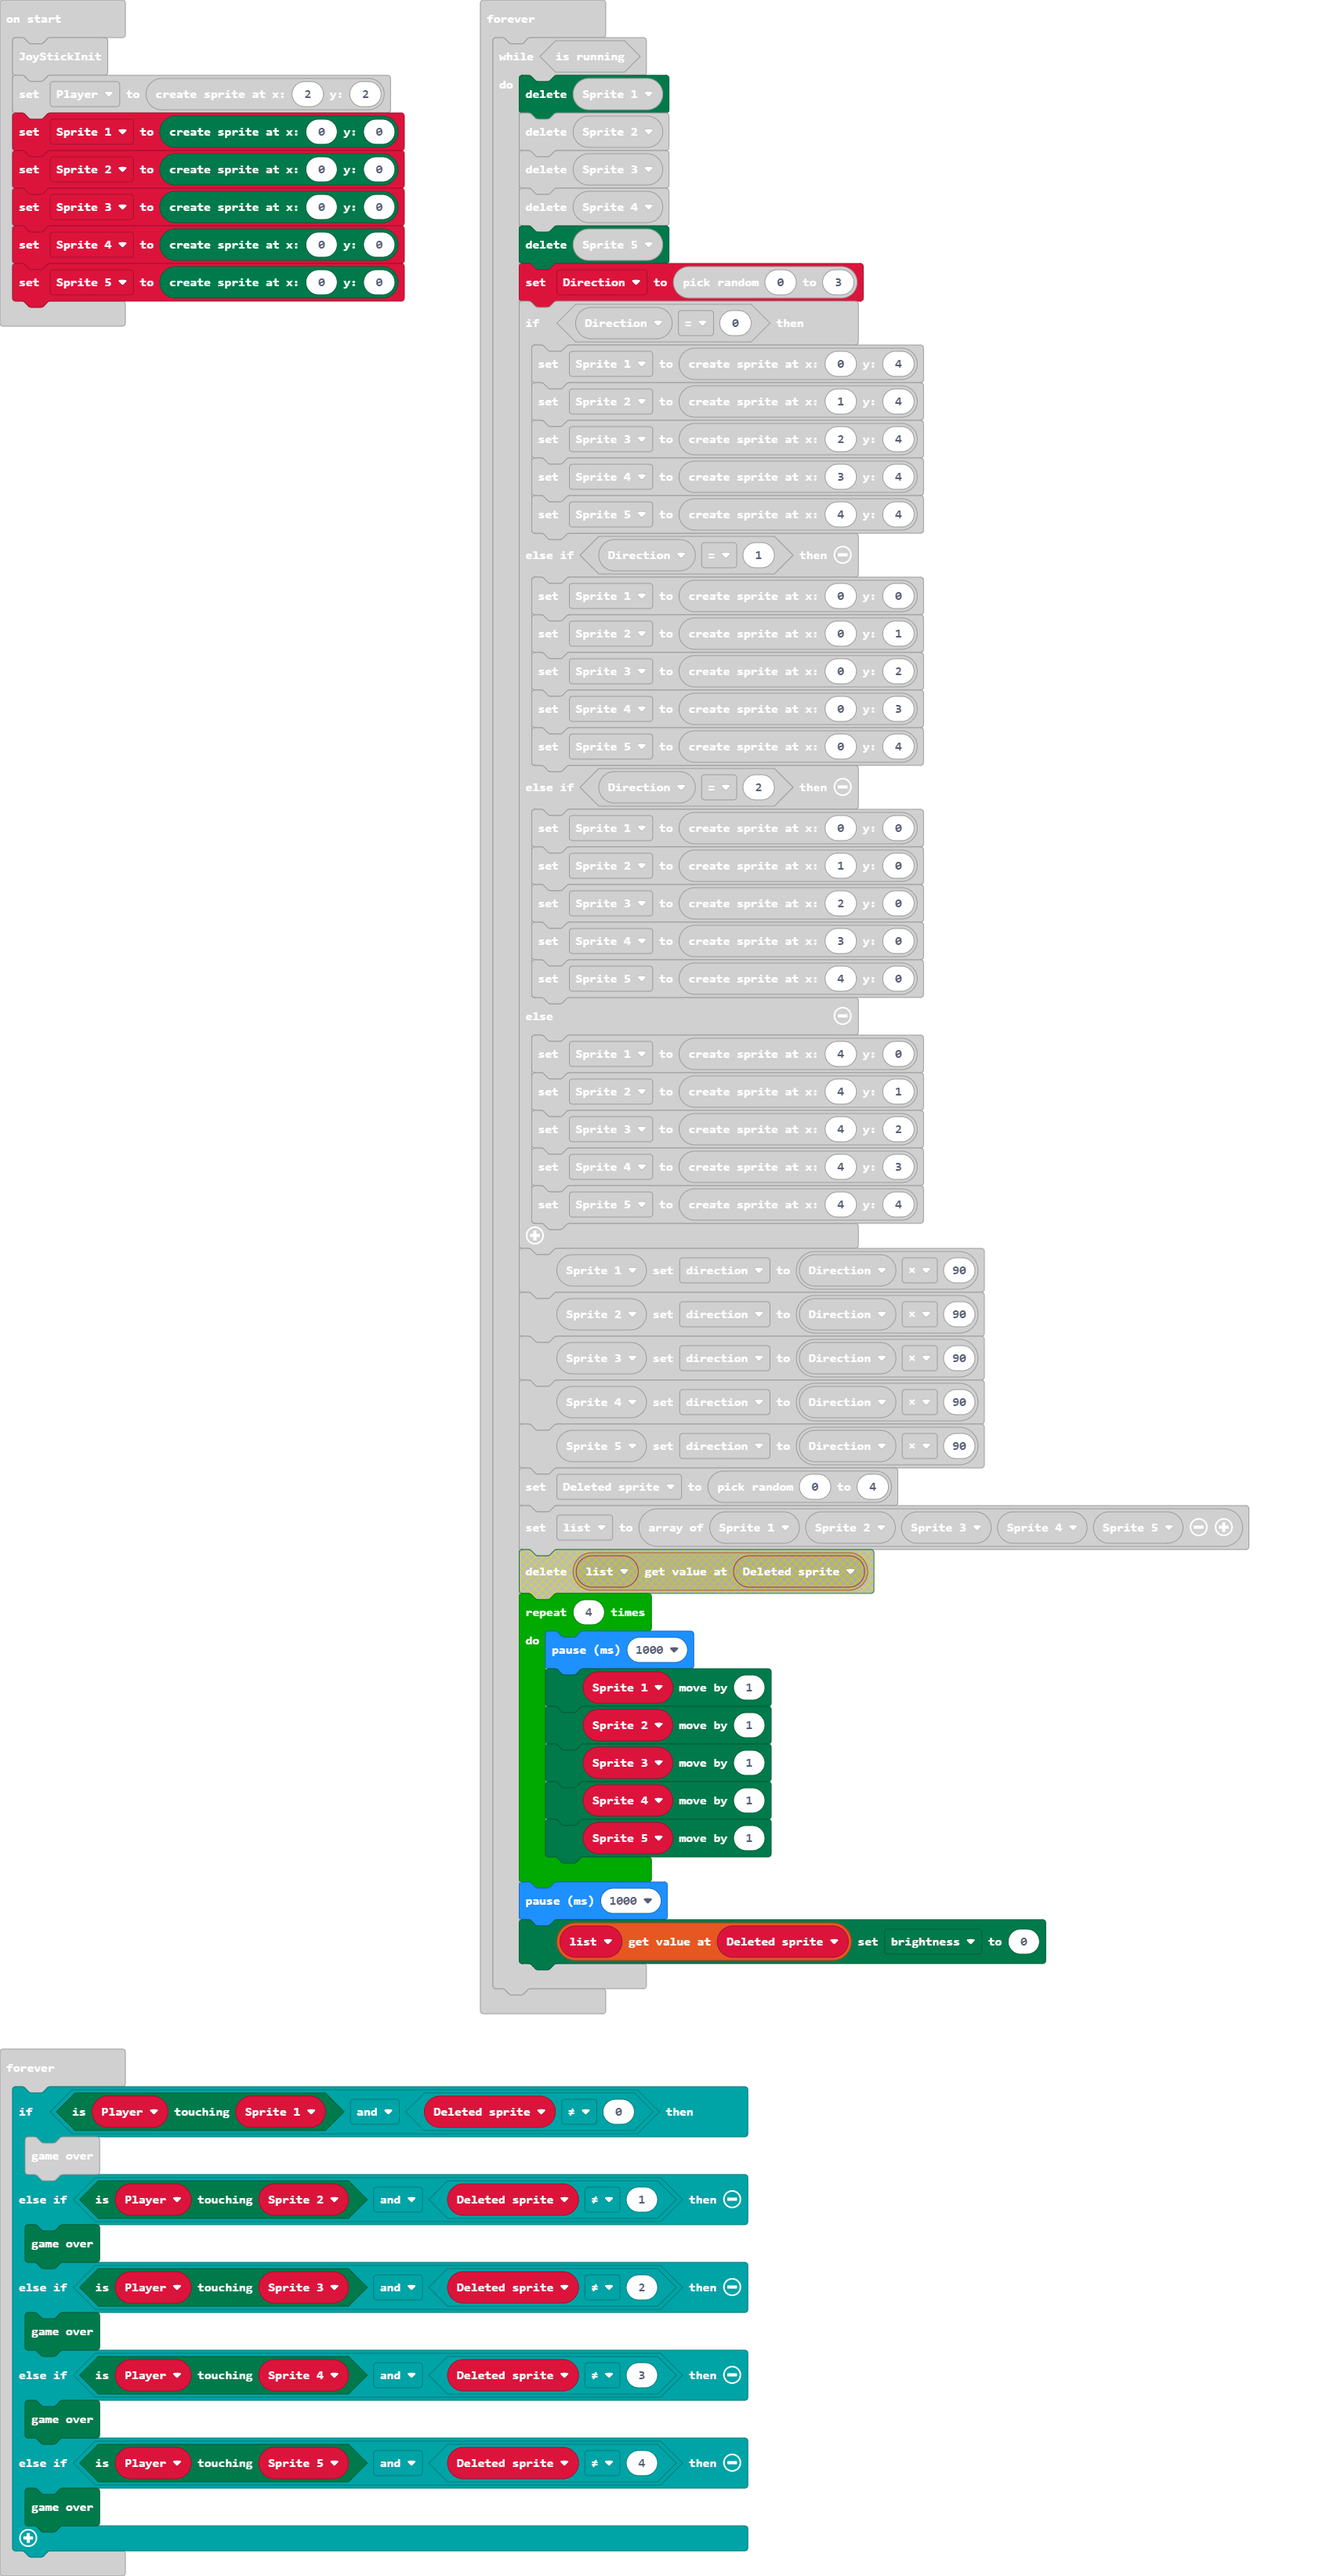
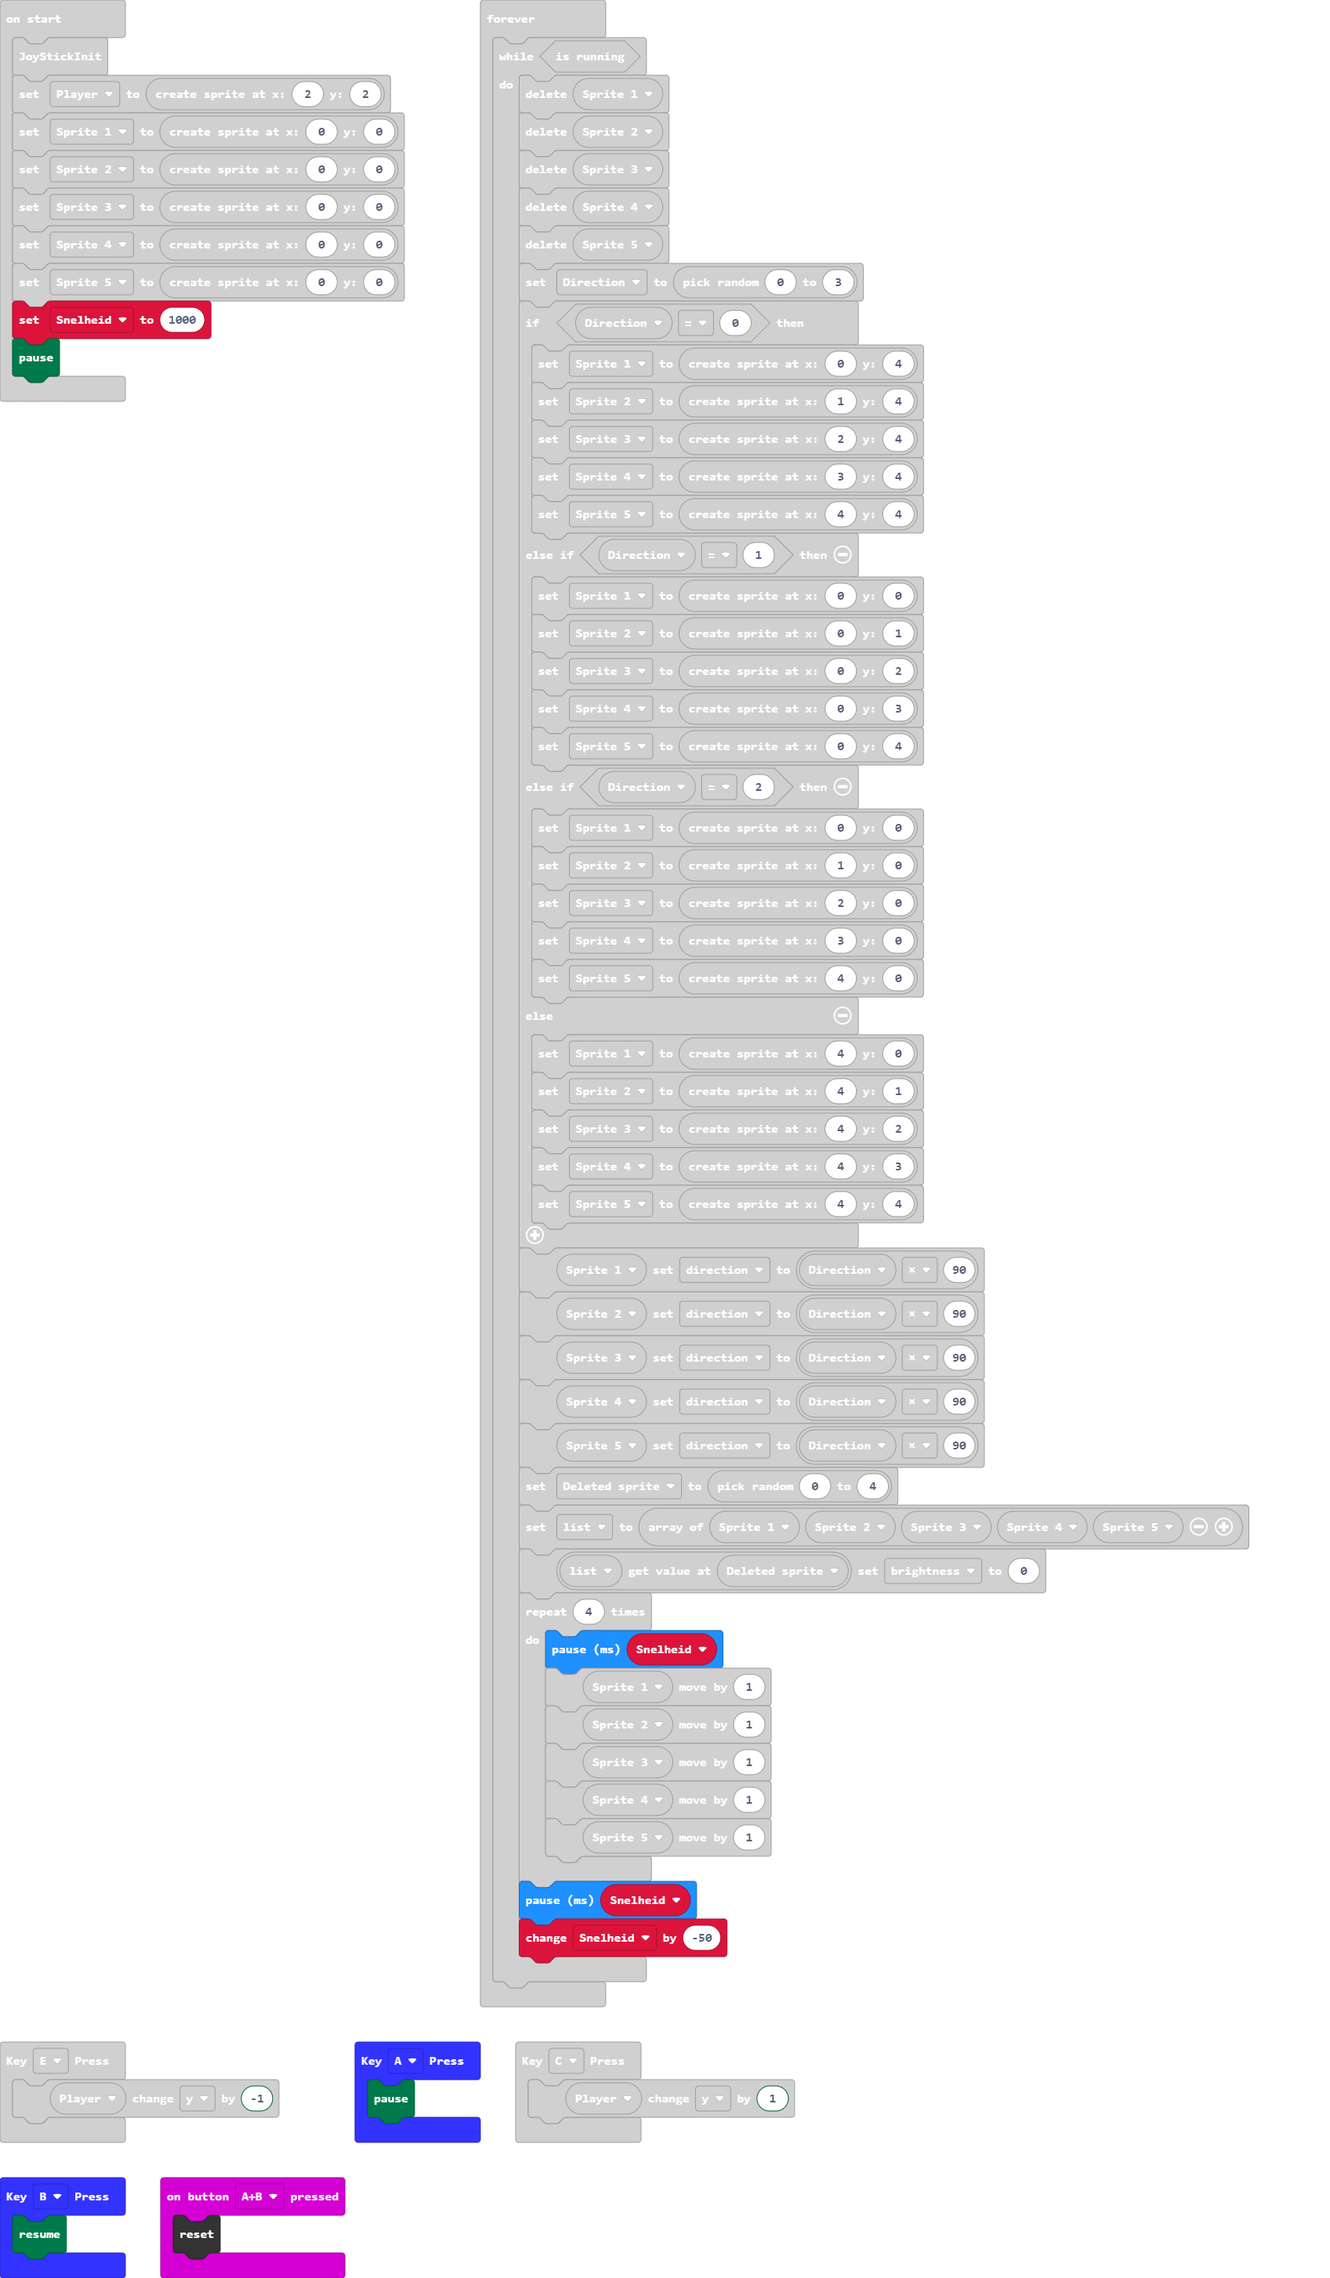
control improvement
(cherry picked from commit 325f7b331cc9aed913c0099ba85c23d714416985)

Changed region(s): [[0.0, 0.0, 0.9369, 1.0], [0.0, 0.0, 0.3123, 0.1858]]

diff --git a/main.ts b/main.ts
@@ -1,14 +1,23 @@
 WSJoyStick.onKey(KEY.F, function () {
     Player.change(LedSpriteProperty.X, -1)
 })
+WSJoyStick.onKey(KEY.A, function () {
+    game.pause()
+})
 WSJoyStick.onKey(KEY.E, function () {
-    Player.change(LedSpriteProperty.Y, 1)
+    Player.change(LedSpriteProperty.Y, -1)
 })
 WSJoyStick.onKey(KEY.D, function () {
     Player.change(LedSpriteProperty.X, 1)
 })
+input.onButtonPressed(Button.AB, function () {
+    control.reset()
+})
+WSJoyStick.onKey(KEY.B, function () {
+    game.resume()
+})
 WSJoyStick.onKey(KEY.C, function () {
-    Player.change(LedSpriteProperty.Y, -1)
+    Player.change(LedSpriteProperty.Y, 1)
 })
 let list: game.LedSprite[] = []
 let Deleted_sprite = 0
@@ -21,6 +30,8 @@ let Sprite_2 = game.createSprite(0, 0)
 let Sprite_3 = game.createSprite(0, 0)
 let Sprite_4 = game.createSprite(0, 0)
 let Sprite_5 = game.createSprite(0, 0)
+let Snelheid = 1000
+game.pause()
 basic.forever(function () {
     while (game.isRunning()) {
         Sprite_1.delete()
@@ -63,14 +74,15 @@ basic.forever(function () {
         list = [Sprite_1, Sprite_2, Sprite_3, Sprite_4, Sprite_5]
         list[Deleted_sprite].set(LedSpriteProperty.Brightness, 0)
         for (let index = 0; index < 4; index++) {
-            basic.pause(1000)
+            basic.pause(Snelheid)
             Sprite_1.move(1)
             Sprite_2.move(1)
             Sprite_3.move(1)
             Sprite_4.move(1)
             Sprite_5.move(1)
         }
-        basic.pause(1000)
+        basic.pause(Snelheid)
+        Snelheid += -50
     }
 })
 basic.forever(function () {
